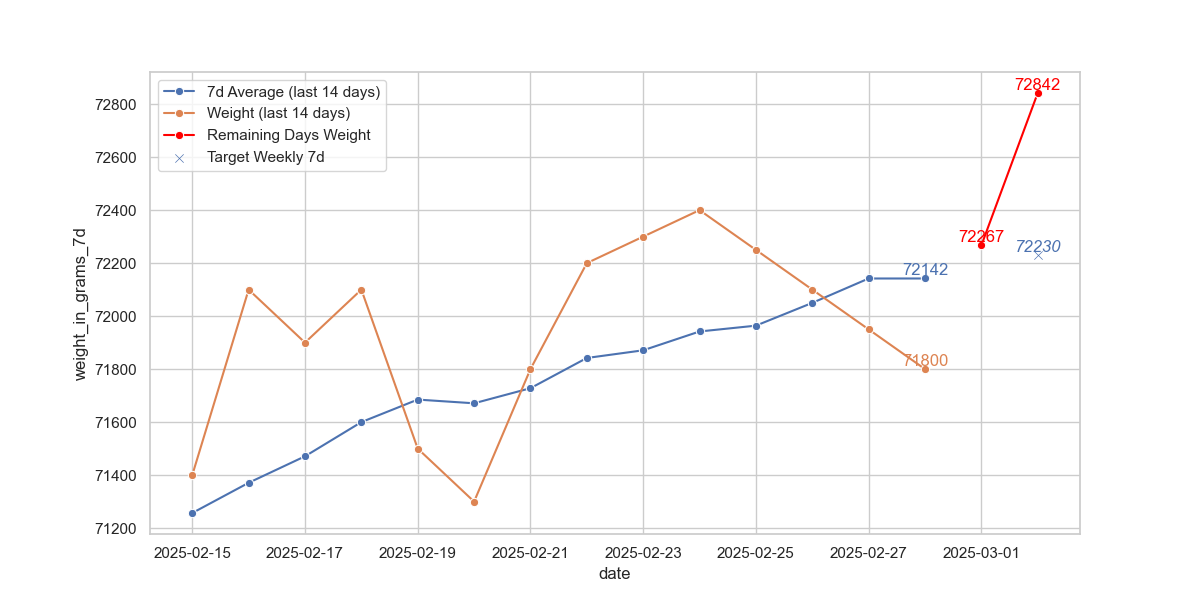
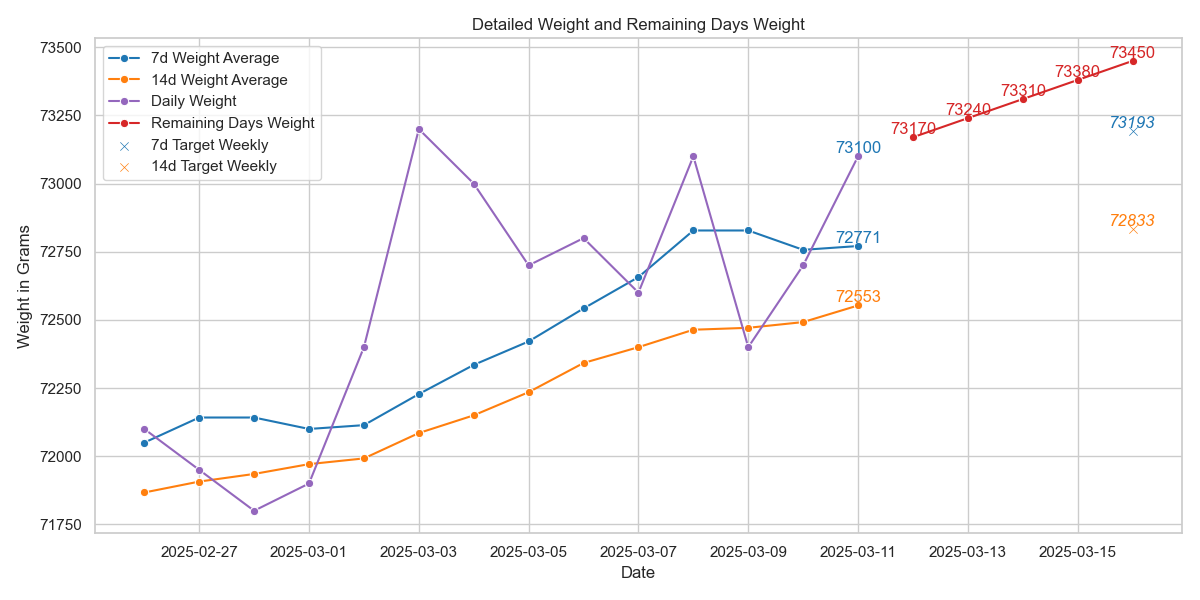
Update documentation and visualizations for weight tracking (#17)
* update

* fix

diff --git a/README.md b/README.md
@@ -11,6 +11,8 @@ they often lack the flexibility and depth needed to effectively track your weigh
 - They often lack the ability to compare your weight change to optimal [bulking rates](https://macrofactorapp.com/bulking-calculator/) or [cutting rates](https://macrofactorapp.com/cutting-calculator/).
 - They don't provide you with actionable insights to get you on track for hitting your bulking or cutting goals.
 
+If you're looking for a comprehensive guide on bulking and cutting, I highly recommend reading *Bigger Leaner Stronger* by Michael Matthews. This book provides detailed information on nutrition, exercise, and mindset to help you achieve your fitness goals.
+
 ## Features
 - **Download Weight Data**: Download your raw weight data from Garmin Connect using the [garminconnect](https://pypi.org/project/garminconnect/) package.
 - **Weekly and Two-Weekly Averages**: Calculate weekly and two-weekly averages of the weight data to smooth out daily fluctuations.
@@ -22,7 +24,7 @@ they often lack the flexibility and depth needed to effectively track your weigh
 ## Examples
 
 ### Weight Data Overview
-The following plot shows an example of the weekly and two-weekly averages of the weight data. The red line represents the weekly average, and the green line represents the two-weekly average.
+The following plot shows an example of the weekly and two-weekly averages of the weight data. The blue line represents the weekly 7 day average, and the orange line represents the weekly 14 day average.
 
 [![Weight Data Overview](docs/images/weight_overview_example.png)](docs/images/weight_overview_example.png)
 
@@ -32,7 +34,7 @@ The following plot shows an example of the weight change per week based on the w
 [![Weight Change per Week](docs/images/weight_change_example.png)](docs/images/weight_change_example.png)
 
 ### Weekly Overview & Daily Targets
-The following plot shows an example of the weekly overview and daily targets. The blue line shows the weekly weight average (including the target for the week) and the orange line shows the raw daily weights. The red line indicates the raw daily weights you need to hit to reach your targeted weekly weight change rate.
+The following plot shows an example of the weekly overview and daily targets. The blue line shows the 7 day weight average and the orange line shows the 14 day weight average (both including the target for the week). The purple line shows the raw daily weights. The red line indicates the raw daily weights you need to hit to reach your targeted 7 day weight.
 
 [![Weekly Overview & Daily Targets](docs/images/weekly_overview_example.png)](docs/images/weekly_overview_example.png)
 
@@ -43,7 +45,7 @@ To install the dependencies, run the following command:
 poetry install
 ```
 
-## Usage
+### Usage
 You need a Garmin account with weight data to use this repository.
 
 To use the code, you need to create a `.env` file in the root directory of this repository.
@@ -92,7 +94,7 @@ To run everything in one go, you can use the following command:
 /bin/bash run.sh
 ```
 
-For settings up the email sending, you'll need to create a webhook (e.g., using [Make](https://make.com)) that takes the inputs and sends them to your email. If you don't use make you might have to adjust the code. The following environment variables need to be set for the email sending to work:
+For setting up the email sending, you'll need to create a webhook (e.g., using [Make](https://make.com)) that takes the inputs and sends them to your email. If you don't use Make you might have to adjust the code. The following environment variables need to be set for the email sending to work:
 ```bash
 WEBHOOK_URL=<your_webhook_url>
 MAKE_API_KEY=<your_make_api_key>
